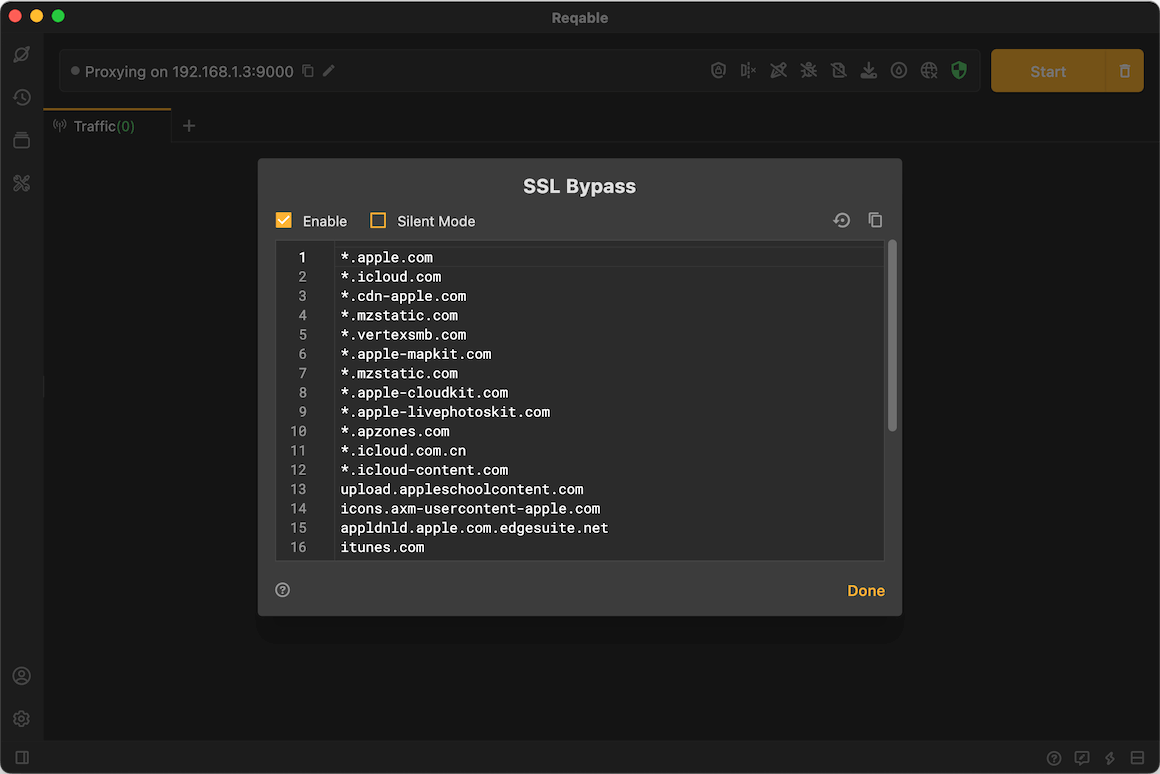
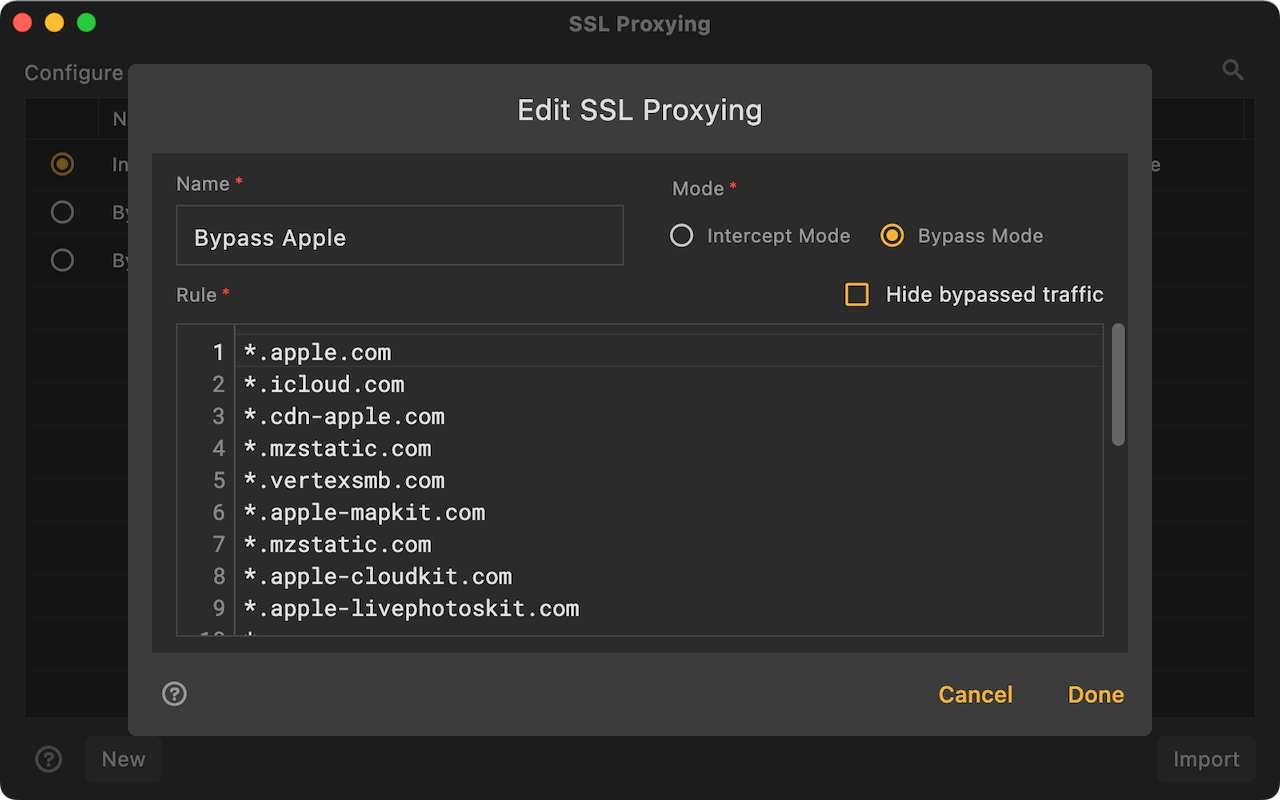
Add ssl-proxying and ssl-certificate docs.

diff --git a/en-US/capture/12_ssl.md b/en-US/capture/12_ssl.md
@@ -4,21 +4,44 @@ Reqable supports analyzing SSL traffic. If the CA root certificate has been succ
 
 ![](arts/ssl_01.png)
 
-By default, Reqable automatically descrypt SSL traffic, which may cause some problems. For example, client pinned certificates, two-way authentication, etc., causing the request to fail. In this case, we need to configure bypass rules to ignore these SSL traffic. Right-click the shield icon and click **SSL Bypass** in the menu to open the configuration page.
+By default, Reqable automatically descrypt SSL traffic, which may cause some issues. For example, client pinned certificates, two-way authentication, etc., causing the request to fail. In this case, we need to configure some rules to specify which domains' traffic is SSL decrypted and which domains' SSL traffic bypasses SSL decryption. We call it `SSL Proxying`. You can open it through `Tools` -> `SSL Proxying` or right-click the shield icon.
 
 ![](arts/ssl_02.png)
 
-On the configuration page, you can input hosts line by line, and wildcard `*` and `?` are supported.
+Reqable provides two built-in rule sets: Intercept All and Bypass All. Intercept All means to intercept all SSL traffic and decrypt it, while Bypass All means not to decrypt any SSL traffic.
+
+Of course, users can also add custom rules to set different SSL behavior modes.
 
 ![](arts/ssl_03.png)
 
-For example, if the `*.apple.com` is configured, the following requests will skip the SSL decryption.
+Domain names support wildcard characters `*` and `?`. For example, if the rule `*.apple.com` is configured, the following domain name requests will be matched.
 ```
 https://www.apple.com/
 https://api.apple.com/
 ```
 
+Traffic matching the SSL bypass rule will still be shown in the list, and can be distinguished by the 🔒 icon. If you do not want it to be shown in the list, you can check the box `"Hide bypassed traffic`.
+
 :::info
-- Configuring SSL Bypass helps to filter out some irrelevant traffic, also is helpful for improving performance.
-- On the Mac OSX system, Reqable configures the hosts that Apple requires to bypass by default, because these hosts are all certificate pinned.
+- Configuring bypass rules helps filter out irrelevant traffic and is very helpful in improving performance.
 :::
+
+## SSL Certificates {#ssl-certificates}
+
+Some HTTP requests may enable certificate pinning or two-way authentication. In these cases, Reqable cannot perform SSL decryption by default (manifested as SSL handshake failure or connection failure). For these scenarios, users can configure custom SSL certificates in Reqable, either client certificates or server certificates.
+
+![](arts/ssl_04.png)
+
+Configure the client certificate, mainly for two-way authentication scenarios. When the Reqable proxy client negotiates SSL handshake with the server, it will send the certificate to the server for verification.
+
+Configure the server certificate, mainly for certificate pinning scenarios. When the Reqable proxy server negotiates SSL handshake with the client, it will send the certificate to the client for verification.
+
+When configuring the certificate, you are required to specify the domain name. Reqable will automatically determine whether to use a custom SSL certificate based on the domain.
+
+Custom SSL certificates support importing the following formats:
+- crt
+- pem
+- der
+- p12
+- pfx
+- zip

diff --git a/zh-CN/capture/12_ssl.md b/zh-CN/capture/12_ssl.md
@@ -4,23 +4,46 @@ Reqable支持分析SSL加密流量，如果已经成功安装了CA根证书，Re
 
 ![](arts/ssl_01.png)
 
-在默认情况下，Reqable自动解析SSL加密流量，可能会带来一些问题。例如客户端固定证书、双向验证等，导致请求失败。这种情况下，我们需要配置旁路规则（SSL Bypass）来让Reqable绕过这些SSL流量。右键点击盾牌图标，在菜单中点击**SSL旁路**，可以打开配置界面。
+## SSL代理 {#ssl-proxying}
+
+在默认情况下，Reqable自动解析SSL加密流量，可能会带来一些问题。例如客户端固定证书、双向验证等，导致请求失败。这种情况下，我们需要配置一些规则来指定哪些域名的流量进行SSL解密，哪些域名的SSL流量绕过SSL解密。通过`工具` -> `SSL代理` 或者右键点击盾牌图标，可以打开SSL代理配置界面。
 
 ![](arts/ssl_02.png)
 
-在配置页面可以按照**行**来配置域名，支持Wildcard通配符 `*` 和 `?`。
+Reqable提供了两个内置规则集：全部拦截和全部绕行。全部拦截指的是拦截全部的SSL流量并进行解密，全部绕行指的是不对任何SSL流量进行解密。
+
+当然，用户也可以编辑自定义的规则来设定不同的SSL行为模式。
 
 ![](arts/ssl_03.png)
 
-举个例子，假如配置了 `*.apple.com` 这个规则，那么下面的请求都将跳过SSL解密过程。
+域名支持Wildcard通配符 `*` 和 `?`。举个例子，假如配置了 `*.apple.com` 这个规则，那么下面域名的请求都将匹配成功。
 ```
 https://www.apple.com/
 https://api.apple.com/
 ```
 
-匹配上SSL旁路规则的流量仍然会在列表中显示，可以通过🔒的图标分辨出来。如果希望不在列表中显示，可以勾选上`静默模式`。
+匹配上SSL旁路规则的流量仍然会在列表中显示，可以通过🔒的图标分辨出来。如果希望不在列表中显示，可以勾选上`不显示绕行流量`。
 
 :::info
-- 配置SSL Bypass有利于过滤掉一些无关的流量，对于提高响应性能有帮助。
-- 在MacOS系统上，Reqable默认配置了苹果公司要求Bypass的域名，因为这些域名都进行了证书固定。
+- 配置绕行规则有利于过滤掉一些无关的流量，对于提高响应性能有很大帮助。
 :::
+
+## SSL证书 {#ssl-certificates}
+
+有些网络请求可能会启用固定证书或者双向验证机制，在这些情况下Reqable默认无法进行SSL解密（表现为SSL握手失败或者请求失败）。针对这些场景，用户可以在Reqable中配置自定义SSL证书，既可以配置客户端证书，也可以配置服务端证书。
+
+![](arts/ssl_04.png)
+
+配置客户端证书，主要用于双向验证场景。Reqable代理客户端在与服务器进行SSL握手协商时，会将证书发给服务器进行验证。
+
+配置服务端证书，主要用户固定证书场景。Reqable代理服务器在与客户端进行SSL握手协商时，会将证书发给客户端进行验证。
+
+在配置证书的时候，要求指定域名，Reqable会自动根据域名来确定是否使用自定义SSL证书。
+
+自定义SSL证书支持导入下面这些格式：
+- crt
+- pem
+- der
+- p12
+- pfx
+- zip
